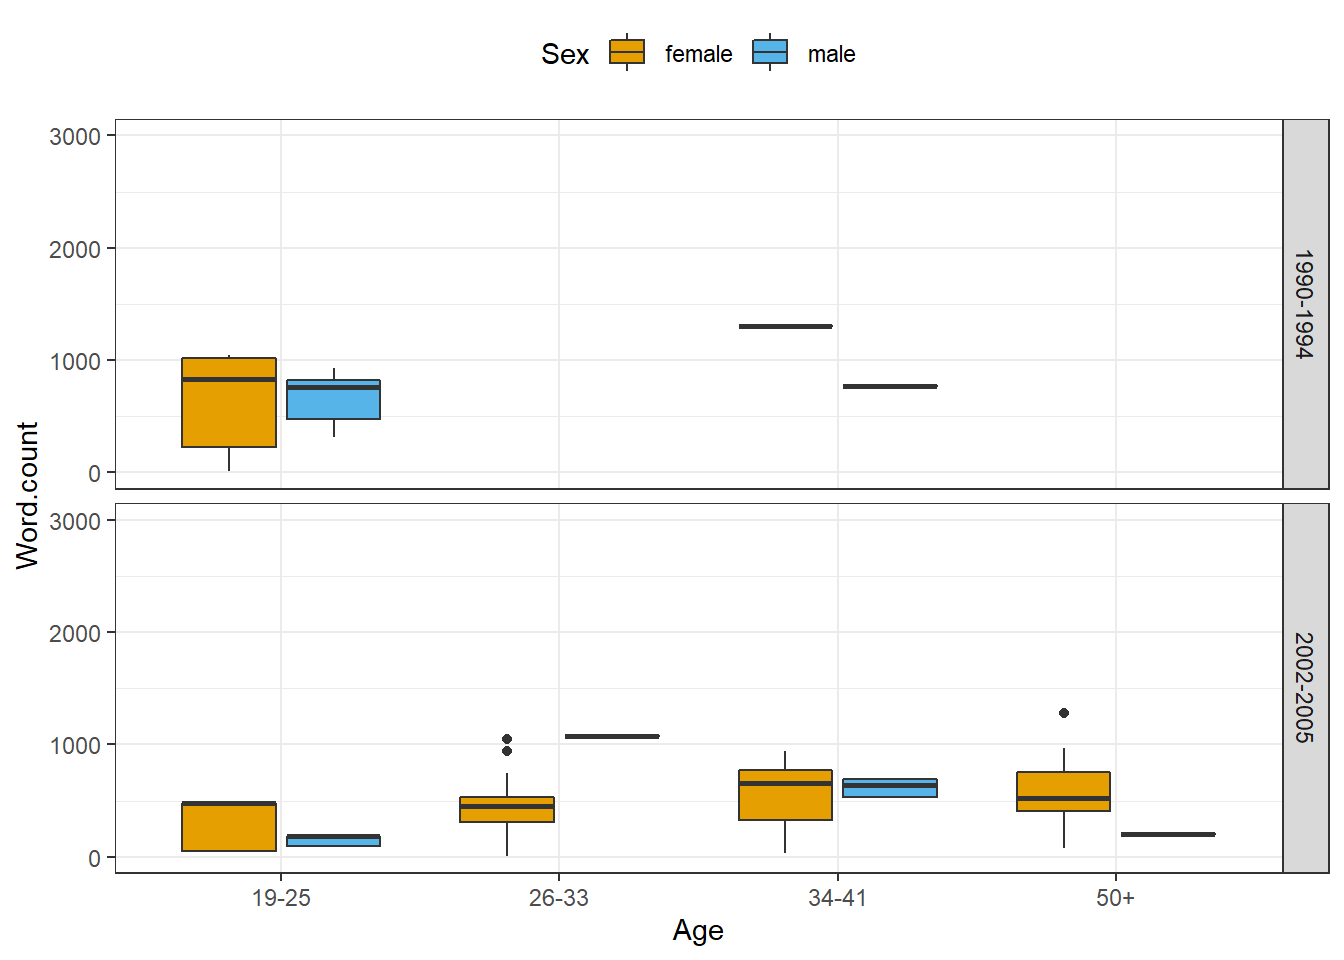
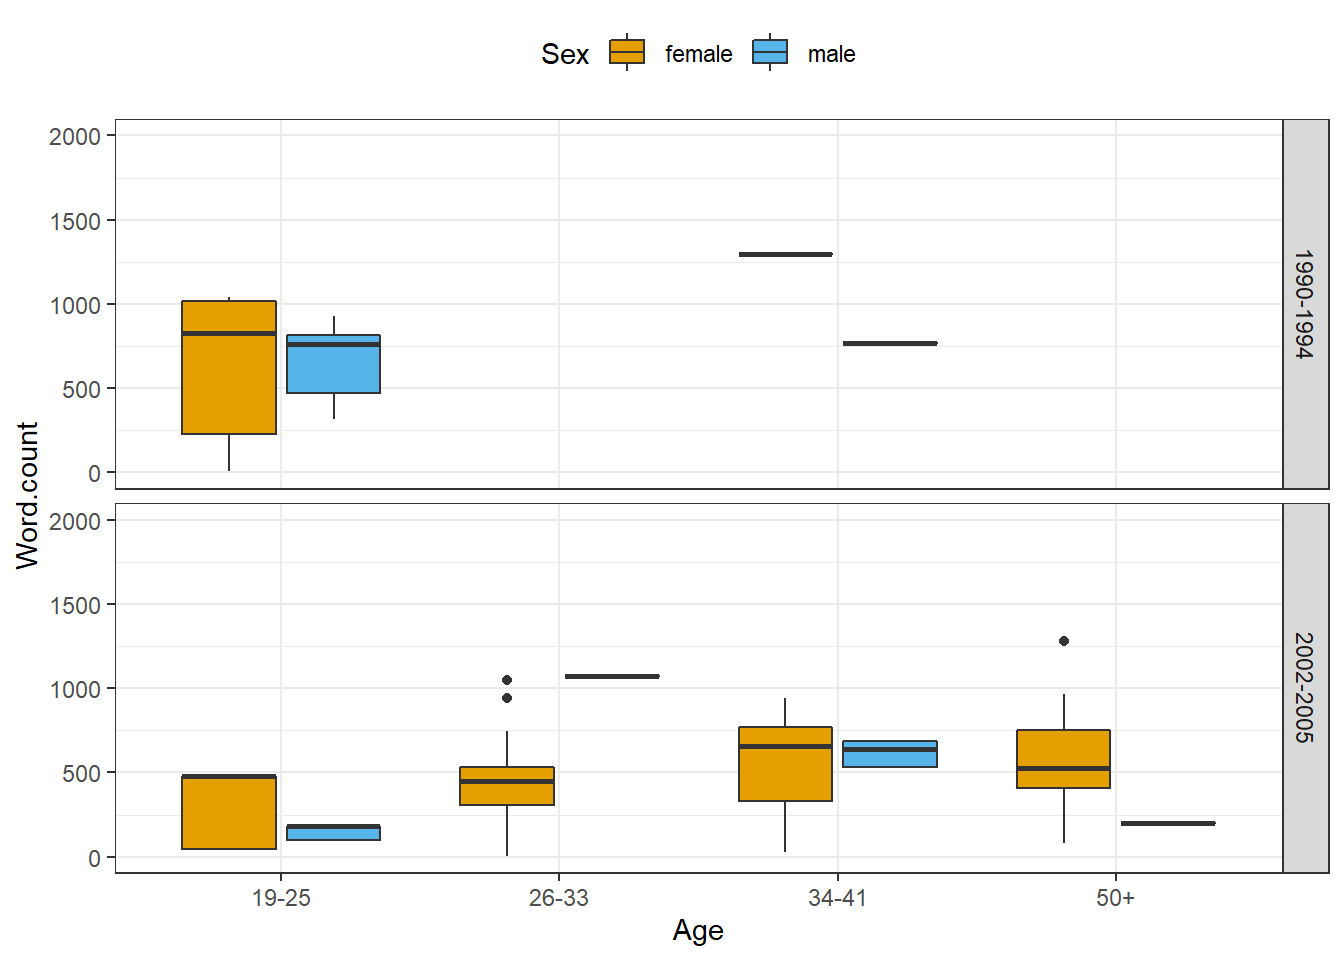
restructuring

diff --git a/IntroR_workshop.html b/IntroR_workshop.html
@@ -541,9 +541,8 @@ div.tocify {
 <p>The intended audience is beginner-level, with no previous experience using R. Thus, no prior knowledge of R is required.</p>
 <p>If you want to know more, would like to get some more practice, or would like to have another approach to R, please check out the workshops and resources on R provided by the <a href="https://web.library.uq.edu.au/library-services/training">UQ library</a>. In addition, there are various online resources available to learn R (you can check out a very recommendable introduction <a href="https://uvastatlab.github.io/phdplus/intror.html">here</a>).</p>
 </div>
-</div>
-<div id="preparation" class="section level1 unnumbered">
-<h1>Preparation</h1>
+<div id="installing-r-and-r-studio" class="section level2 unnumbered">
+<h2>Installing R and R Studio</h2>
 <ul>
 <li><p>You have NOT yet installed <strong>R</strong> on your computer?</p>
 <ul>
@@ -561,8 +560,9 @@ div.tocify {
 </ul></li>
 </ul>
 </div>
-<div id="before-starting-r" class="section level1 unnumbered">
-<h1>Before starting R</h1>
+</div>
+<div id="preparation" class="section level1 unnumbered">
+<h1>Preparation</h1>
 <p>Before you actually open R or R Studio, there things to consider that make working in R much easier and give your workflow a better structure.</p>
 <p>Imagine it like this: when you want to write a book, you could simply take pen and paper and start writing <em>or</em> you could think about what you want to write about, what different chapters your book would consist of, which chapters to write first, what these chapters will deal with, etc. The same is true for R: you could simply open R and start writing code <em>or</em> you can prepare you session and structure what you will be doing.</p>
 <div id="folder-structure-and-r-projects" class="section level2 unnumbered">
@@ -632,8 +632,8 @@ div.tocify {
 </ul>
 </div>
 </div>
-<div id="getting-started-with-r" class="section level1 unnumbered">
-<h1>Getting started with R</h1>
+<div id="r-studio-basics" class="section level1 unnumbered">
+<h1>R (Studio) Basics</h1>
 <p>R Studio is a so-called IDE - Integrated Development Environment. The interface provides easy access to R. The advantage of this application is that R programs and files as well as a project directory can be managed easily. The environment is capable of editing and running program code, viewing outputs and rendering graphics. Furthermore, it is possible to view variables and data objects of an R-script directly in the interface.</p>
 <div id="r-studio-panes" class="section level2 unnumbered">
 <h2>R Studio: Panes</h2>
@@ -681,8 +681,8 @@ div.tocify {
 </div>
 </div>
 </div>
-<div id="r-basics" class="section level1 unnumbered">
-<h1>R Basics</h1>
+<div id="getting-started-with-r" class="section level1 unnumbered">
+<h1>Getting started with R</h1>
 <p>This section introduces some basic concepts and procedures that help optimize your workflow in R.</p>
 <div id="setting-up-an-r-session" class="section level2 unnumbered">
 <h2>Setting up an R session</h2>
@@ -1547,7 +1547,7 @@ head(plotdata)</code></pre>
              linetype = Sex)) +
   geom_point() +
   stat_summary(fun.y=mean, geom=&quot;line&quot;, aes(group=Sex)) +
-  coord_cartesian(ylim = c(0, 3000)) +
+  coord_cartesian(ylim = c(0, 2000)) +
   theme_bw() + 
   theme(legend.position = &quot;top&quot;) + 
   scale_color_manual(breaks = c(&quot;female&quot;, &quot;male&quot;),
@@ -1566,7 +1566,7 @@ head(plotdata)</code></pre>
              fill = Sex)) +
   facet_grid(vars(Date)) +
   geom_boxplot() +
-  coord_cartesian(ylim = c(0, 3000)) +
+  coord_cartesian(ylim = c(0, 2000)) +
   theme_bw() + 
   theme(legend.position = &quot;top&quot;) + 
   scale_fill_manual(breaks = c(&quot;female&quot;, &quot;male&quot;),
@@ -1584,9 +1584,12 @@ head(plotdata)</code></pre>
 </ol>
 </div>
 </div>
+</div>
+<div id="ending-r-sessions" class="section level1 unnumbered">
+<h1>Ending R sessions</h1>
+<p>At the end of each session, you can extract information about the session itself (e.g. which R version you used and which versions of packages). This can help others (or even your future self) to reproduce the analysis that you have done.</p>
 <div id="extracting-session-information" class="section level2 unnumbered">
 <h2>Extracting session information</h2>
-<p>At the end of each session, you can extract information about the session itself (e.g. which R version you used and which versions of packages). This can help others (or even your future self) to reproduce the analysis that you have done.</p>
 <p>You can extract the session information by running the <code>sessionInfo</code> function (without any arguments)</p>
 <pre class="r"><code>sessionInfo()</code></pre>
 <pre><code>## R version 4.0.2 (2020-06-22)
@@ -1627,8 +1630,9 @@ head(plotdata)</code></pre>
 ## [57] hms_0.5.3          parallel_4.0.2     yaml_2.2.1         colorspace_1.4-1  
 ## [61] rvest_0.3.6        knitr_1.29         haven_2.3.1        usethis_1.6.1</code></pre>
 </div>
-<div id="recommended-for-further-learning" class="section level2 unnumbered">
-<h2>Recommended for further learning</h2>
+</div>
+<div id="going-further" class="section level1 unnumbered">
+<h1>Going further</h1>
 <p>If you want to know more, would like to get some more practice, or would like to have another approach to R, please check out the workshops and resources on R provided by the <a href="https://web.library.uq.edu.au/library-services/training">UQ library</a>. In addition, there are various online resources available to learn R (you can check out a very recommendable introduction <a href="https://uvastatlab.github.io/phdplus/intror.html">here</a>).</p>
 <p>Here are also some additional resources that you may find helpful:</p>
 <ul>
@@ -1646,7 +1650,6 @@ head(plotdata)</code></pre>
 </ul></li>
 </ul>
 <p><img src="https://slcladal.github.io/images/uq2.jpg" width="100%" /></p>
-</div>
 </div>
 
 
